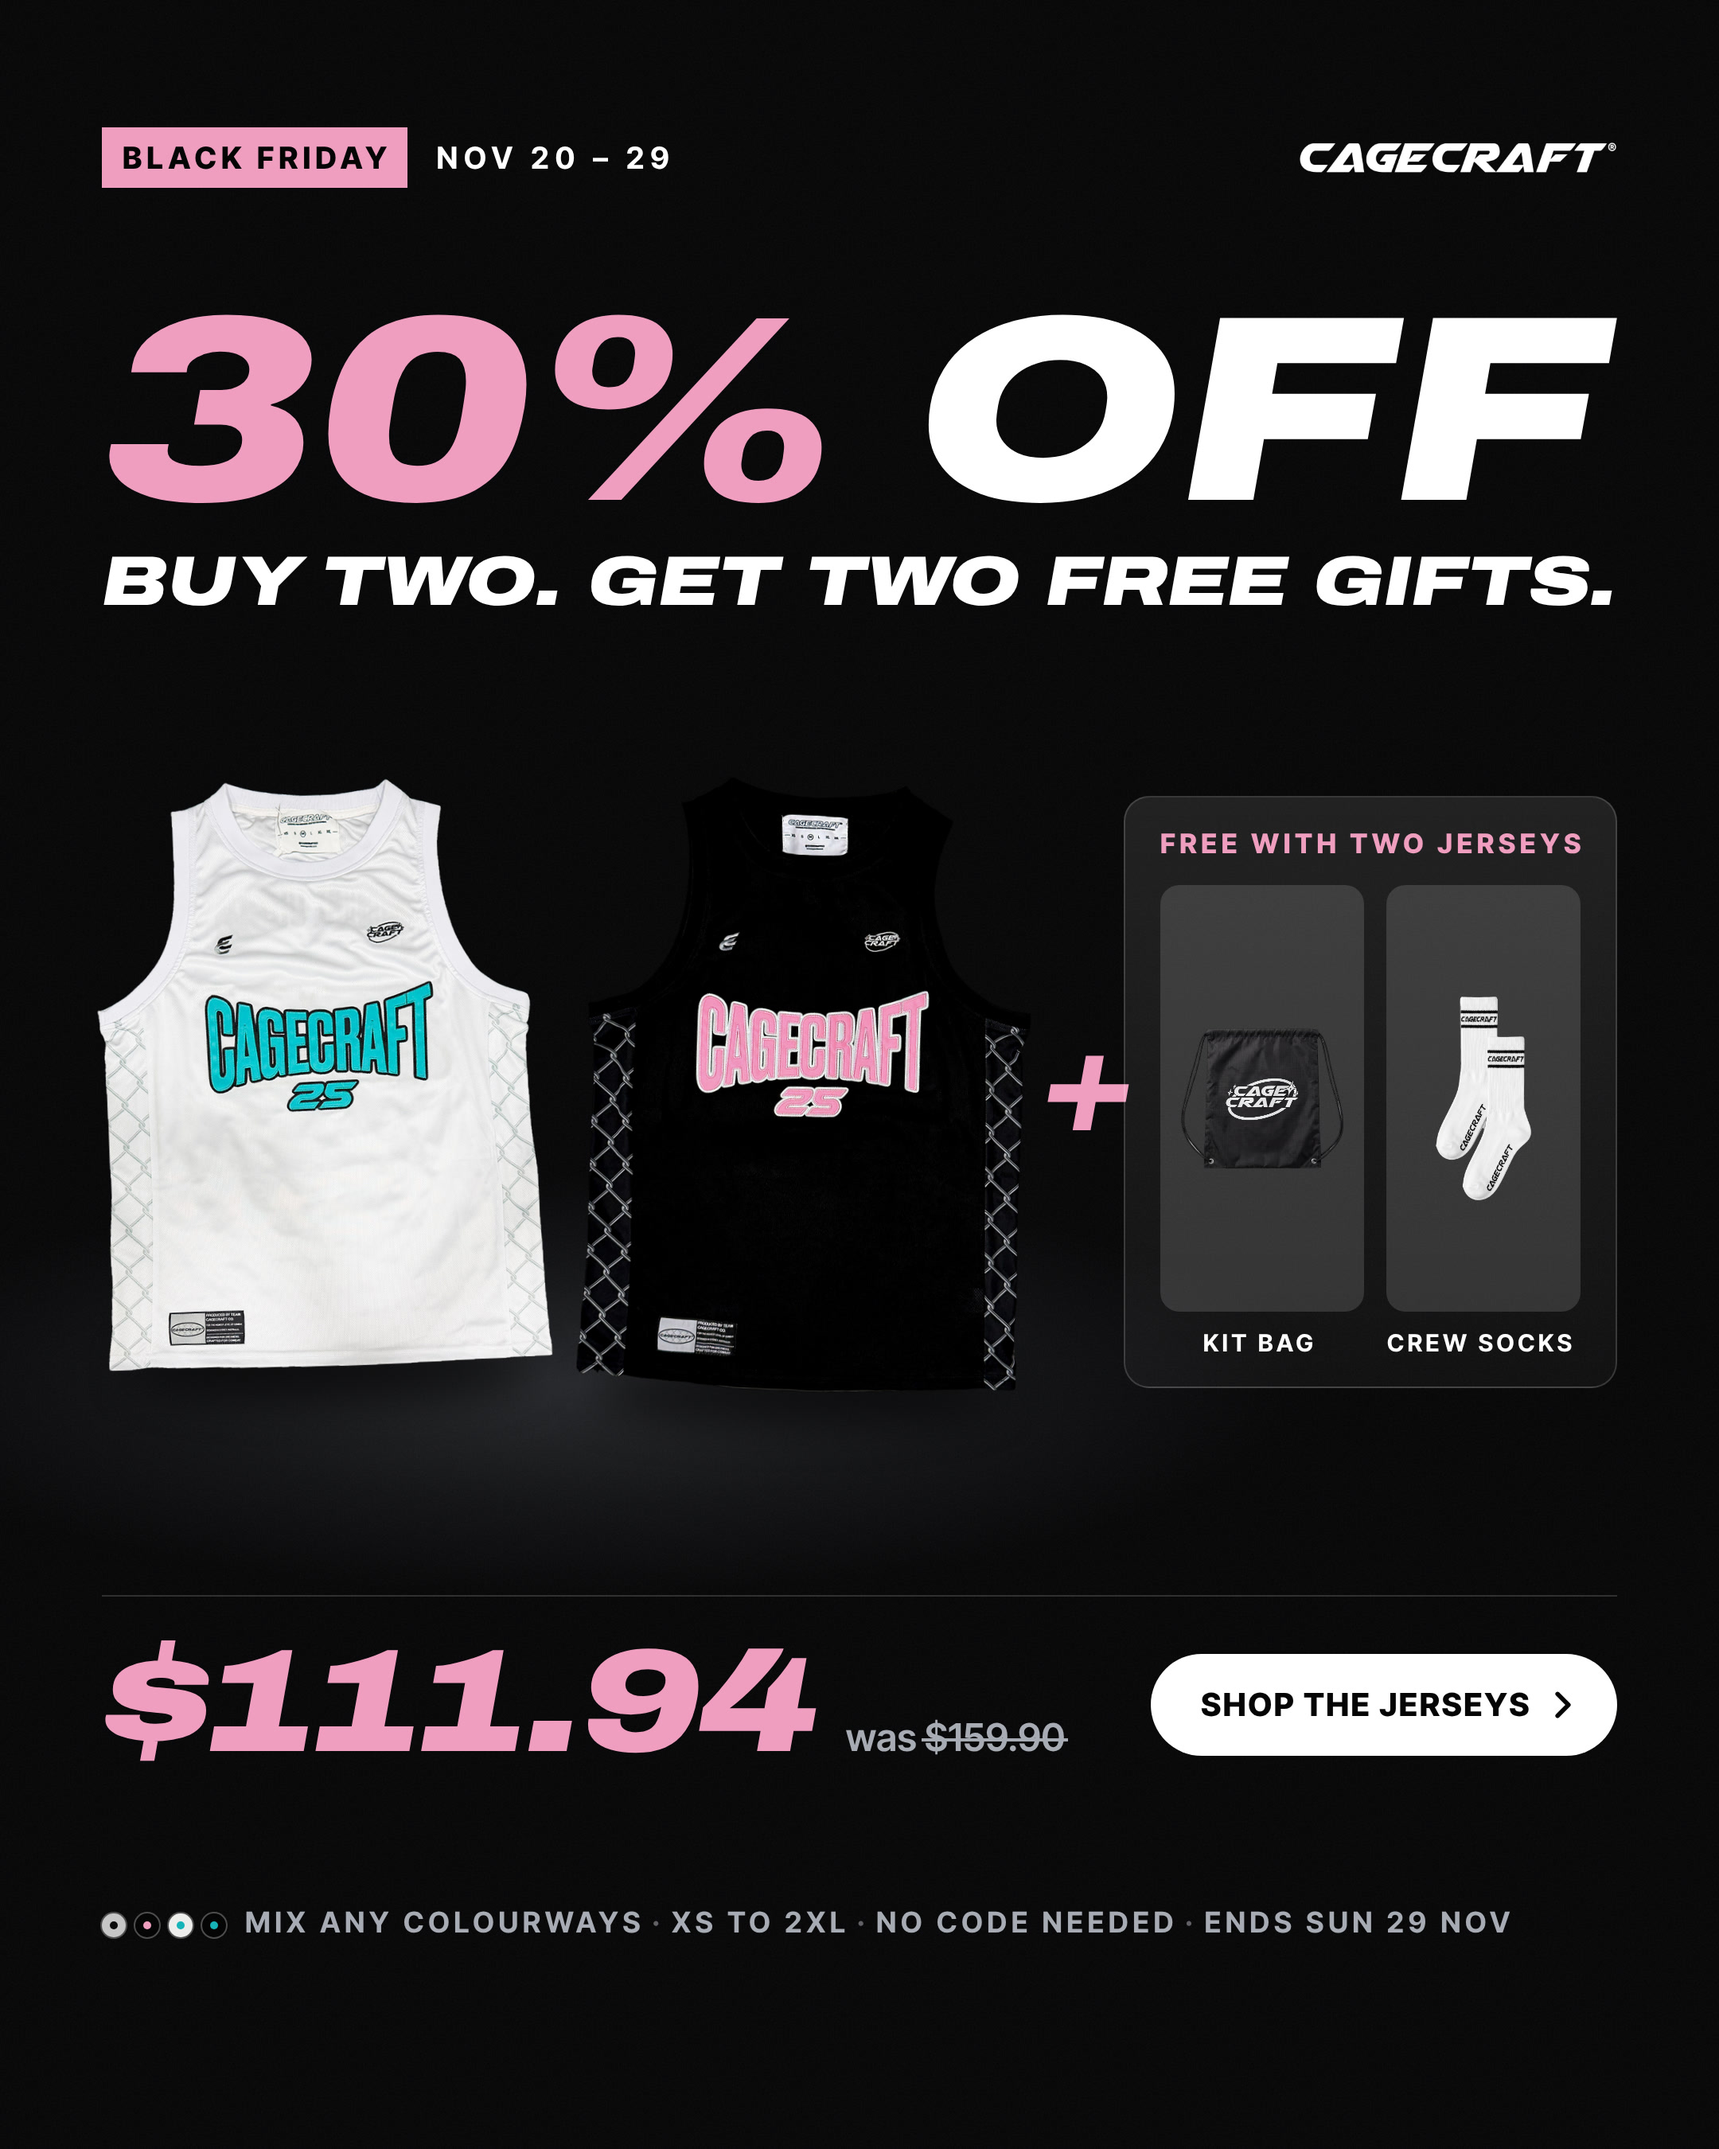
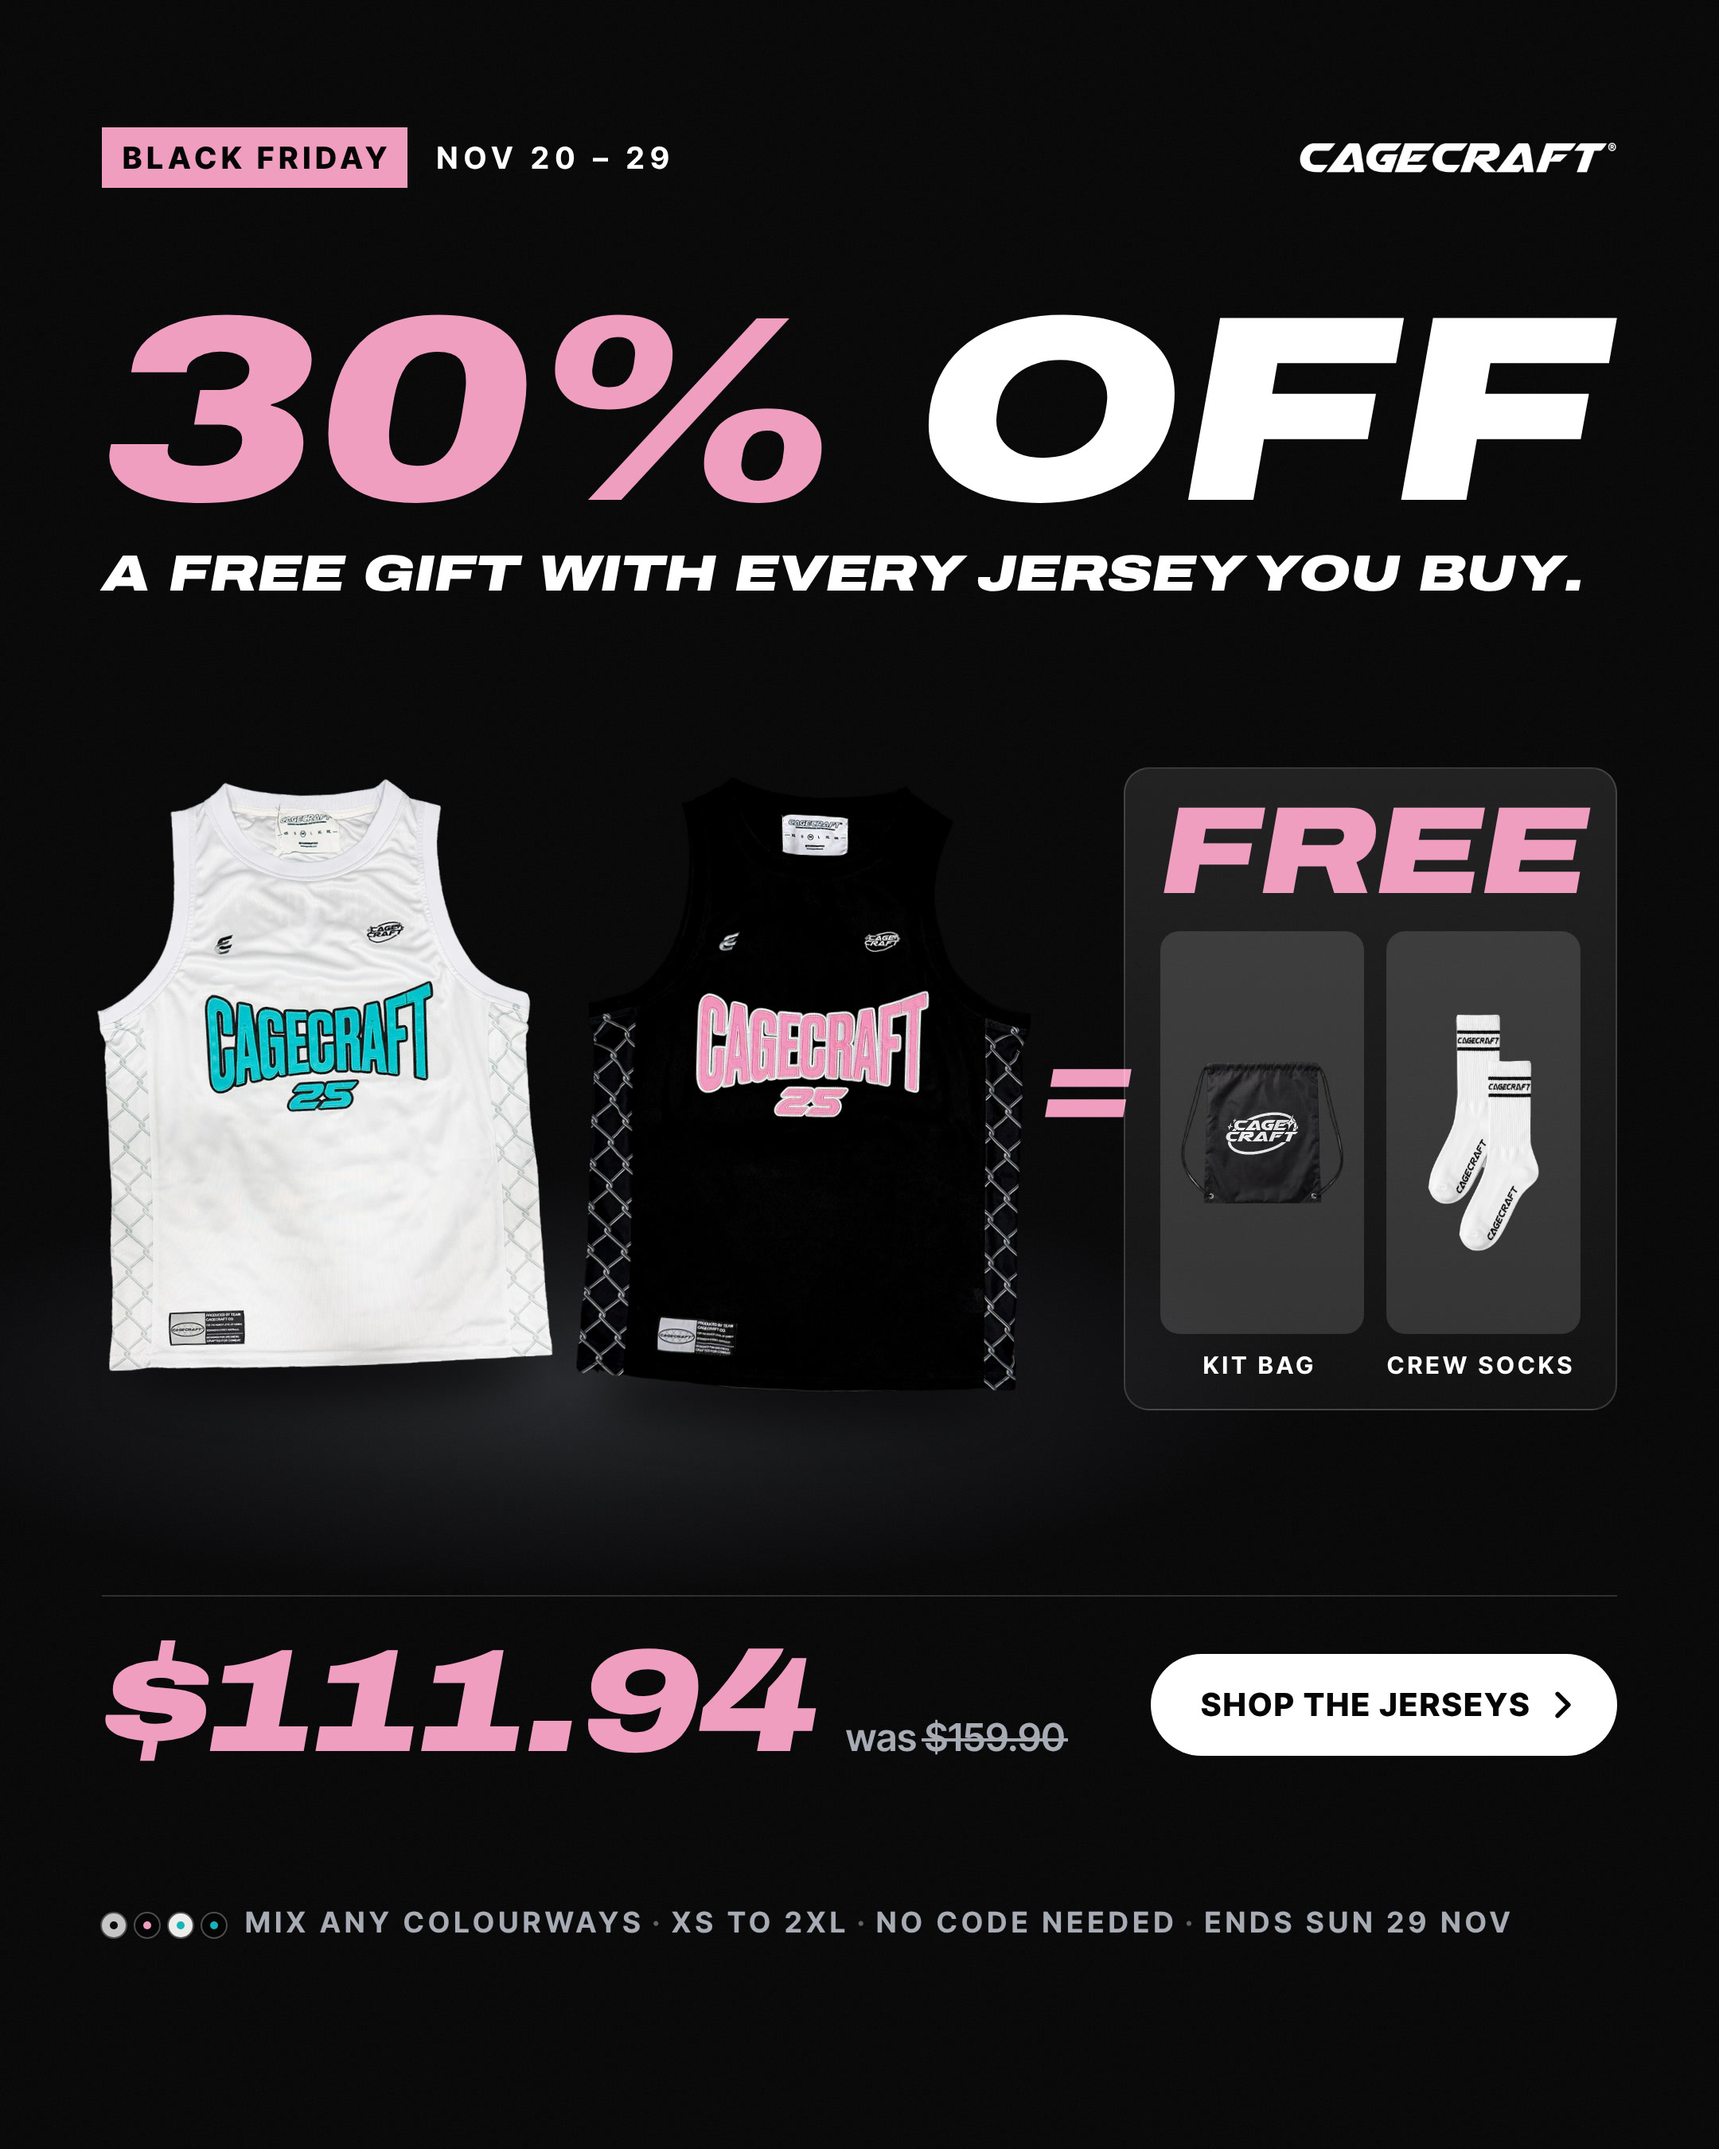
Rework two-jersey ad: free gift with every jersey, equals sign, large FREE
Claude-Session: https://claude.ai/code/session_01DwmoEmy8CSvczLcw7q8N8i

diff --git a/cagecraft-ads/ads/bf-09-jersey-two-free-gifts/ad.html b/cagecraft-ads/ads/bf-09-jersey-two-free-gifts/ad.html
@@ -62,7 +62,7 @@
   .headline .l2 { word-spacing: .08em; }
   .plus { font-size: 84px; line-height: 1; color: var(--pink); }
   .gifts { border: 1px solid var(--hair); border-radius: 16px; background: linear-gradient(180deg, rgba(255,255,255,.10), rgba(255,255,255,.04)); padding: 22px 22px 20px; box-sizing: border-box; display: flex; flex-direction: column; }
-  .gifts .gh { font: 800 17px/1 var(--cc-body); letter-spacing: .16em; text-transform: uppercase; color: var(--pink); white-space: nowrap; }
+  .gifts .gh { font-size: var(--free, 76px); line-height: .82; color: var(--pink); white-space: nowrap; text-align: center; }
   .gifts .row { display: flex; gap: 14px; margin-top: 16px; flex: 1; }
   .gifts .tile { flex: 1; border-radius: 12px; background: rgba(255,255,255,.14); display: flex; align-items: center; justify-content: center; padding: 12px; }
   .gifts .tile img { display: block; height: auto; }
@@ -80,12 +80,12 @@
   </div>
   <div class="abs headline cc-display">
     <span class="l1"><em>30%</em> off</span>
-    <span class="l2">Buy two. Get two free gifts.</span>
+    <span class="l2">A free gift with every jersey you buy.</span>
   </div>
   <div class="abs lineup" id="lineup"></div>
-  <div class="abs plus cc-display" id="plus">+</div>
+  <div class="abs plus cc-display" id="plus">=</div>
   <div class="abs gifts" id="gifts">
-    <div class="gh">Free with two jerseys</div>
+    <div class="gh cc-display">Free</div>
     <div class="row">
       <div class="tile"><img id="bag" data-product="cut/kit-bag/front.png" src="../../library/cut/kit-bag/front.png" alt="Kit bag"></div>
       <div class="tile"><img id="socks" data-product="cut/crew-socks/white.png" src="../../library/cut/crew-socks/white.png" alt="Crew socks"></div>
@@ -135,9 +135,9 @@
     el.style.display = "inline-block";
     while (el.getBoundingClientRect().width > maxW && fs > 20) { fs -= 1; el.style.fontSize = fs + "px"; }
     el.style.display = ""; }); }
-  const L = tall ? { labelsY: 278, headY: 352, priceY: 1090, factsY: 1232, top: 640, floorY: 960, floorH: 360, w: 240, cx: [186, 440], gx: 640, gy: 640, gw: 375, gh: 330, bagW: 118, sockW: 62, plusX: 574, plusY: 760 }
-                 : { labelsY: 80, headY: 184, priceY: 1002, factsY: 1200, top: 486, floorY: 870, floorH: 360, w: 286, cx: [208, 500], gx: 706, gy: 500, gw: 310, gh: 372, bagW: 104, sockW: 62, plusX: 652, plusY: 640 };
-  setVars({ "--labels-y": L.labelsY, "--head-y": L.headY, "--h1": 166, "--h2": 62, "--price-y": L.priceY, "--facts-y": L.factsY, "--floor-y": L.floorY, "--floor-h": L.floorH, "--price": 92 });
+  const L = tall ? { labelsY: 278, headY: 352, priceY: 1090, factsY: 1232, top: 640, floorY: 960, floorH: 360, w: 240, cx: [186, 440], gx: 640, gy: 628, gw: 375, gh: 348, free: 62, bagW: 118, sockW: 62, plusX: 574, plusY: 760 }
+                 : { labelsY: 80, headY: 184, priceY: 1002, factsY: 1200, top: 486, floorY: 870, floorH: 360, w: 286, cx: [208, 500], gx: 706, gy: 482, gw: 310, gh: 404, free: 78, bagW: 104, sockW: 72, plusX: 652, plusY: 640 };
+  setVars({ "--labels-y": L.labelsY, "--head-y": L.headY, "--h1": 166, "--h2": 62, "--price-y": L.priceY, "--facts-y": L.factsY, "--floor-y": L.floorY, "--floor-h": L.floorH, "--price": 92, "--free": L.free });
   document.querySelector(".floor").style.left = "360px";
   jersey("tiffany", L.cx[0], L.top, L.w, -2);
   jersey("cottoncandy", L.cx[1], L.top, L.w, 2);
